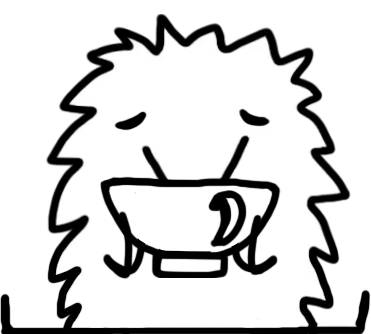
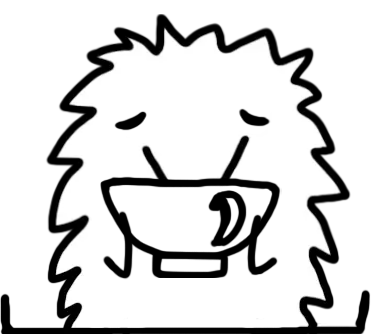
moving things around

diff --git a/bin/engine/state_runtime.py b/bin/engine/state_runtime.py
@@ -7,7 +7,7 @@ class StateRuntime:
     def __init__(self, pet, current_state_name, config, all_configs, variables):
         self.pet = pet
         self.current_state_name = current_state_name
-        self.config = config
+        self.current_state_cfg = config
         self.all_configs = all_configs
         self.variables = variables
 
@@ -57,6 +57,7 @@ class StateRuntime:
     def clear_pulses(self):
         self.pulses.clear()
     
+
     # apps
     def update_apps(self, app_state):
         # print("apps")
@@ -76,14 +77,14 @@ class StateRuntime:
     
     
     # helpers
-    def apply_on_enter(self):  # called from state machine on enter
-        for cmd in self.config.get("variables_on_enter", []):
+    def _apply_on_enter(self):  # called from state machine on enter
+        for cmd in self.current_state_cfg.get("variables_on_enter", []):
             self._var_or_flag_command(cmd)
-        for part in self.config.get("particles_on_enter", []):
+        for part in self.current_state_cfg.get("particles_on_enter", []):
             self._emit_particles(part)
-        for c_part in self.config.get("constant_particles", []):
+        for c_part in self.current_state_cfg.get("constant_particles", []):
             self._emit_particles(c_part, True)
-        for audio in self.config.get("audio_on_enter", []):
+        for audio in self.current_state_cfg.get("audio_on_enter", []):
             self._play_audio(audio)
 
     def _apply_on_transition(self, transition_info):
@@ -109,11 +110,11 @@ class StateRuntime:
             self._play_audio(audio_on_transition)
 
     def apply_on_exit(self): # called from state machine on exit
-        for cmd in self.config.get("variables_on_exit", []):
+        for cmd in self.current_state_cfg.get("variables_on_exit", []):
             self._var_or_flag_command(cmd)
-        for part in self.config.get("particles_on_exit", []):
+        for part in self.current_state_cfg.get("particles_on_exit", []):
             self._emit_particles(part)
-        for audio in self.config.get("audio_on_exit", []):
+        for audio in self.current_state_cfg.get("audio_on_exit", []):
             self._play_audio(audio)
 
         for emitter in self.constant_emitters:
@@ -164,6 +165,16 @@ class StateRuntime:
 
 
     # transitions
+
+    def enter_state(self, next_state):
+        self.current_state_name = next_state
+        self.current_state_cfg = self.all_configs[next_state]
+        self._apply_on_enter()
+        self.variables.reset("times_clicked_this_state")
+        self.variables.reset("time_spent_in_this_state")
+        self.remove_flag(Flag.ANIMATION_FINISHED)
+        self.remove_flag(Flag.MOVEMENT_FINISHED)
+
     def _check_condition(self, cond):
         if "flag" in cond:
             return Flag.__members__.get(cond["flag"]) in self.flags
@@ -222,7 +233,7 @@ class StateRuntime:
 
     def handle_events(self) -> tuple[str, str, dict] | None:
         # print(f"state_runtime: handling events: Flags: ", self.flags, " Pulses: ", self.pulses)
-        particle_commands = self.config.get("conditional_particles", [])
+        particle_commands = self.current_state_cfg.get("conditional_particles", [])
         for p in particle_commands:
             conditions = p["when"]
             chance = p.get("chance", 1)
@@ -230,7 +241,7 @@ class StateRuntime:
                 self._emit_particles(p)
                 debug_log.debug(f"Emitting conditional_particles {p["emit"]} - satisfied all conditions {conditions} and chance {chance}")
 
-        audio_commands = self.config.get("conditional_audio", [])
+        audio_commands = self.current_state_cfg.get("conditional_audio", [])
         for au in audio_commands:
             conditions = au["when"]
             chance = au.get("chance", 1)
@@ -239,7 +250,7 @@ class StateRuntime:
                 self._play_audio(au)
 
         # --- Checking for state transitions ---
-        transitions = self.config.get("transitions", [])
+        transitions = self.current_state_cfg.get("transitions", [])
         for t in transitions:  # handling the list of "transitions:" from configs
             conditions = t["when"]
             chance = t.get("chance", 1)
@@ -253,10 +264,10 @@ class StateRuntime:
                     t.get("transition_animation_cfg", {})
                 )
             
-        exit_conditions = self.config.get("exit_when")
+        exit_conditions = self.current_state_cfg.get("exit_when")
         if exit_conditions and all(self._check_condition(c) for c in exit_conditions):
-            debug_log.debug(f"Exiting from {self.current_state_name} to {self.config["exit_to"]} - satisfied all exit conditions {exit_conditions}\nExit animation: {self.config.get("exit_animation")}, config: {self.config.get("exit_animation_cfg")}")
-            return(self.config["exit_to"], self.config.get("exit_animation"), self.config.get("exit_animation_cfg", {}))
+            debug_log.debug(f"Exiting from {self.current_state_name} to {self.current_state_cfg["exit_to"]} - satisfied all exit conditions {exit_conditions}\nExit animation: {self.current_state_cfg.get("exit_animation")}, config: {self.current_state_cfg.get("exit_animation_cfg")}")
+            return(self.current_state_cfg["exit_to"], self.current_state_cfg.get("exit_animation"), self.current_state_cfg.get("exit_animation_cfg", {}))
 
         return None
 

diff --git a/bin/engine/state_machine.py b/bin/engine/state_machine.py
@@ -55,6 +55,8 @@ class StateMachine:
 
         self.state.clear_pulses()
 
+        return result
+
         
     def queue_transition(self, next_state, anim, cfg):      
         self.pet.on_state_exit(self.state.current_state_name)
@@ -70,8 +72,7 @@ class StateMachine:
             self.pet.play_animation(
                 self.pending_transition_anim,
                 cfg=self.pending_transition_cfg,
-                isTransitionAnimation=True
-            )
+                isTransitionAnimation=True)
         
 
     def apply_pending_changes(self):
@@ -80,20 +81,15 @@ class StateMachine:
         
         self.state.clear_pulses() #just in case any pulses arent cleared too fast
 
-        self.in_transition = False
-
         self.change(self.pending_state)
         # print("state_machine: pending changes applied")
 
         # Cleanup
+        self.in_transition = False
         self.pending_state = None
         self.pending_transition_anim = None
         self.pending_transition_cfg = None
   
     def change(self, next_state): #changes the state, updates state_runtime, calls on_state_enter in pet.py
-        self.remove_flag(Flag.ANIMATION_FINISHED) # later will add some way to automatically clear these
-        self.remove_flag(Flag.MOVEMENT_FINISHED)
-        self.state.current_state_name = next_state
-        self.state.config = self.configs[next_state]
+        self.state.enter_state(next_state)
         self.pet.on_state_enter(next_state)
-        self.state.apply_on_enter()

diff --git a/bin/pet.py b/bin/pet.py
@@ -241,9 +241,6 @@ class Pet(QWidget): # main logic
         # if self.parent_window_hwnd:
         #     # print(f"Position: {self.anchor.x}, {self.anchor.y}\nState: {self.current_state}\nParent window: {self.parent_window_hwnd}\nParent window position: {self.parent_window_rect_last}")
 
-        self.variables.reset("times_clicked_this_state")
-        self.variables.reset("time_spent_in_this_state")
-
         cfg = self.STATES[state]
 
         next_behaviour = cfg.get("behaviour", "STATIONARY")
